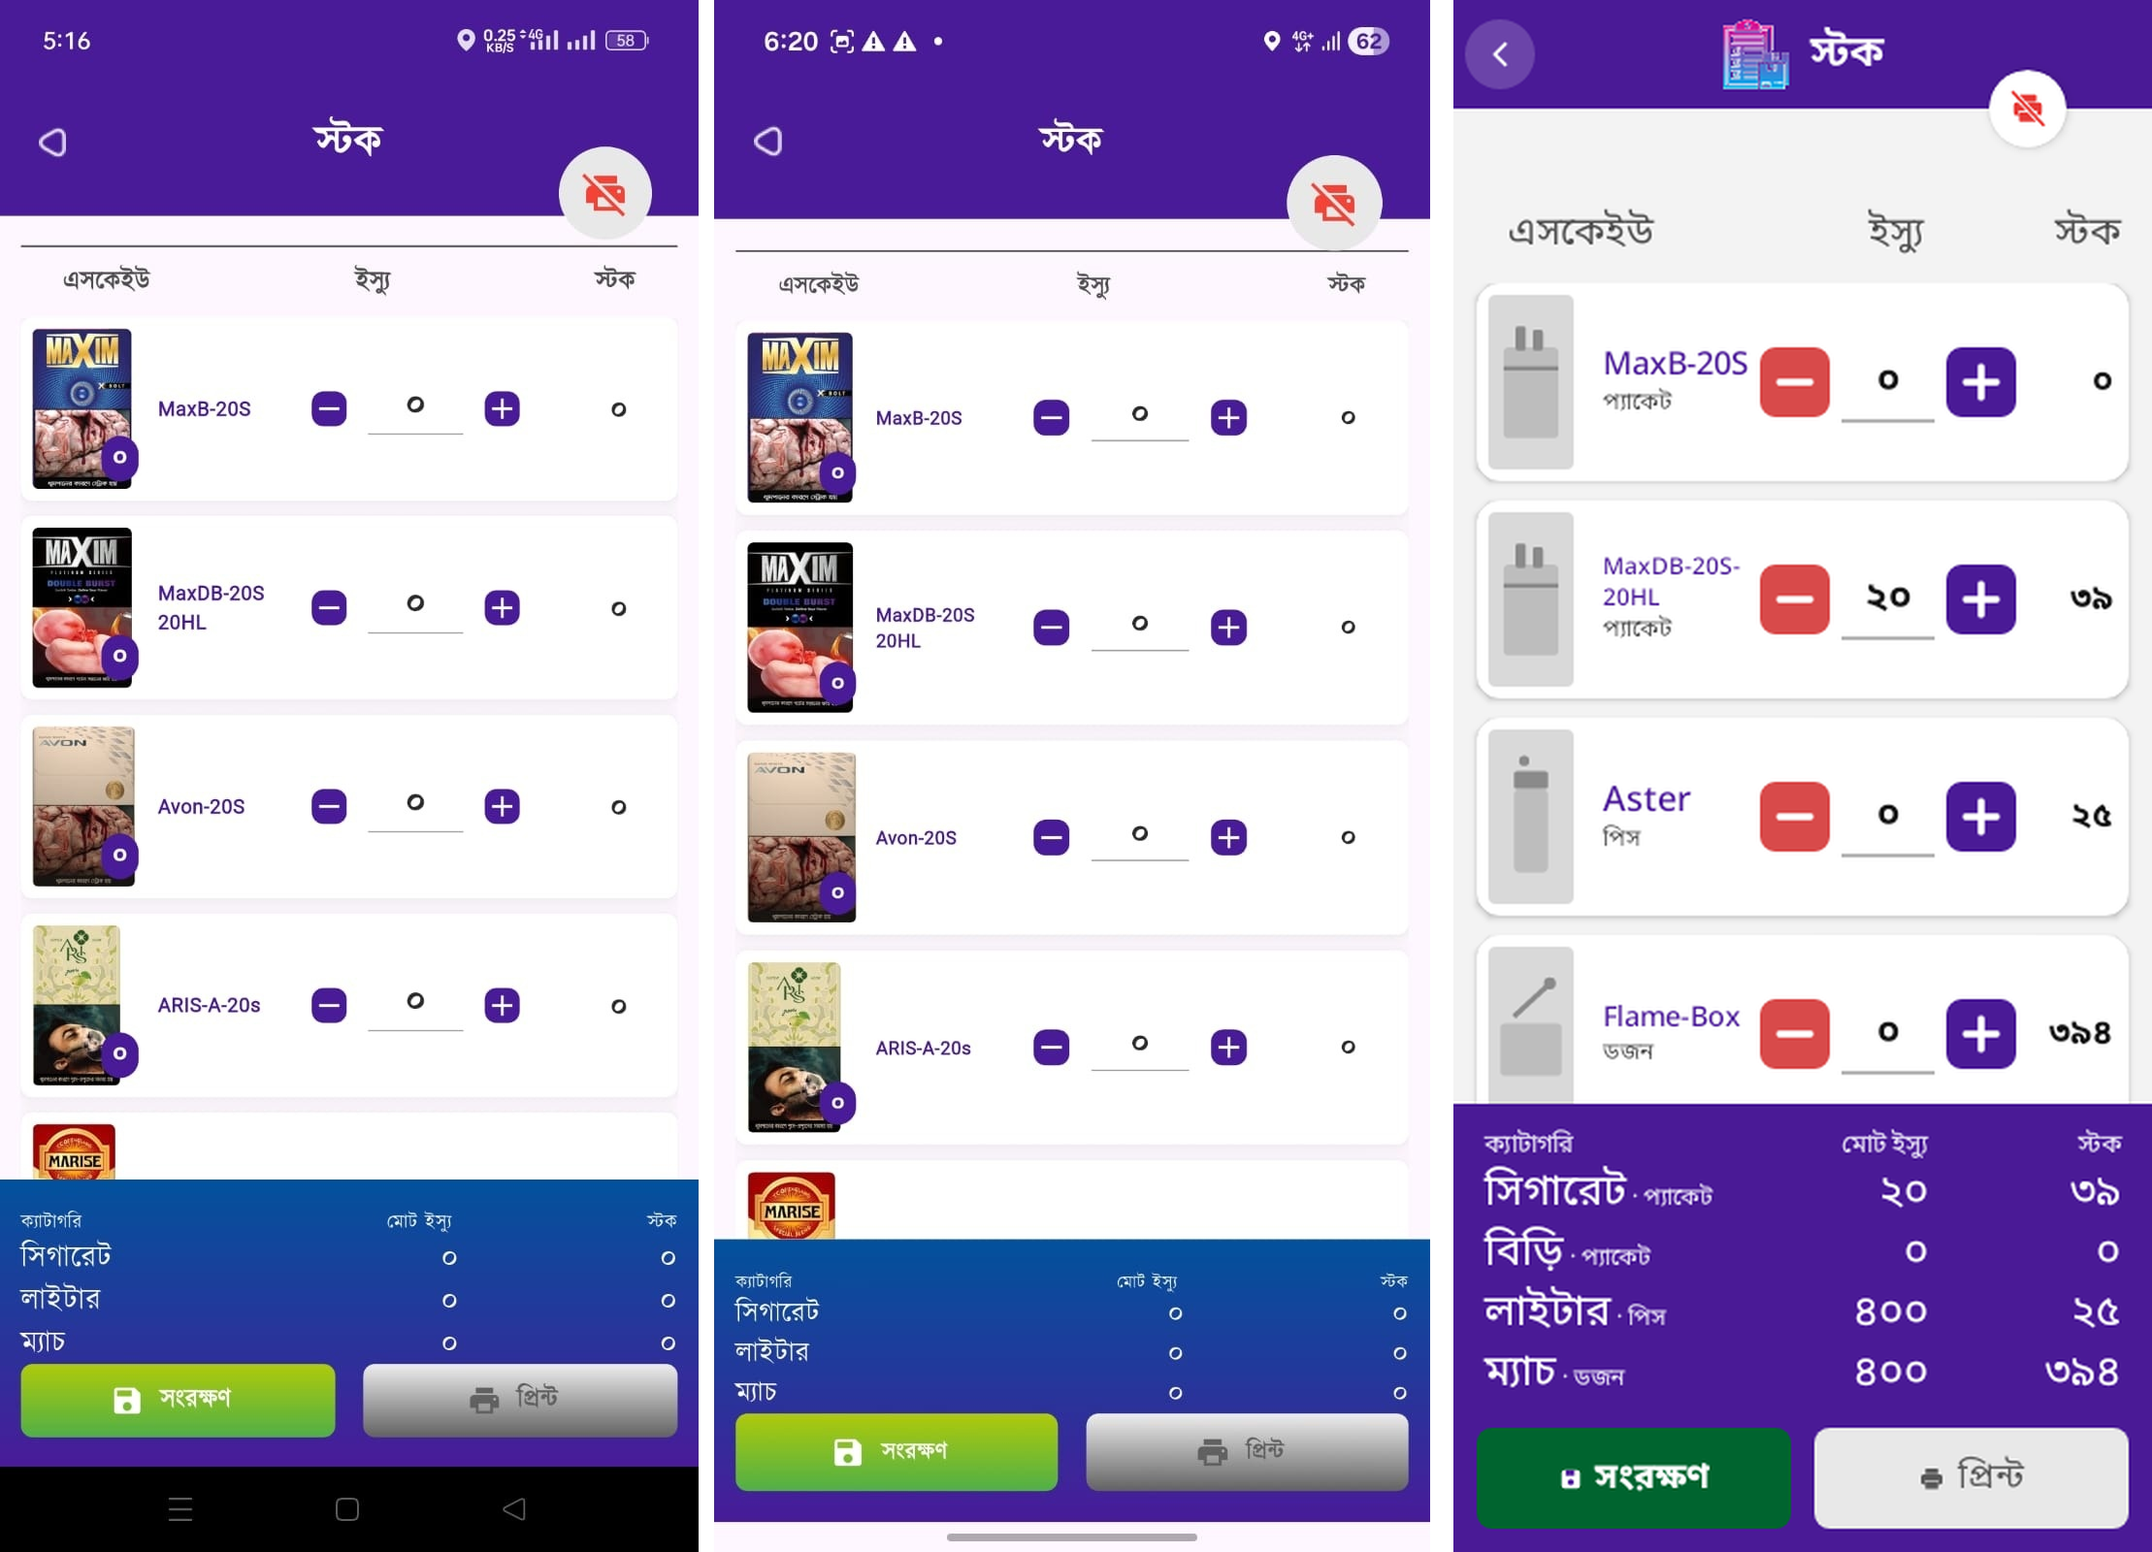
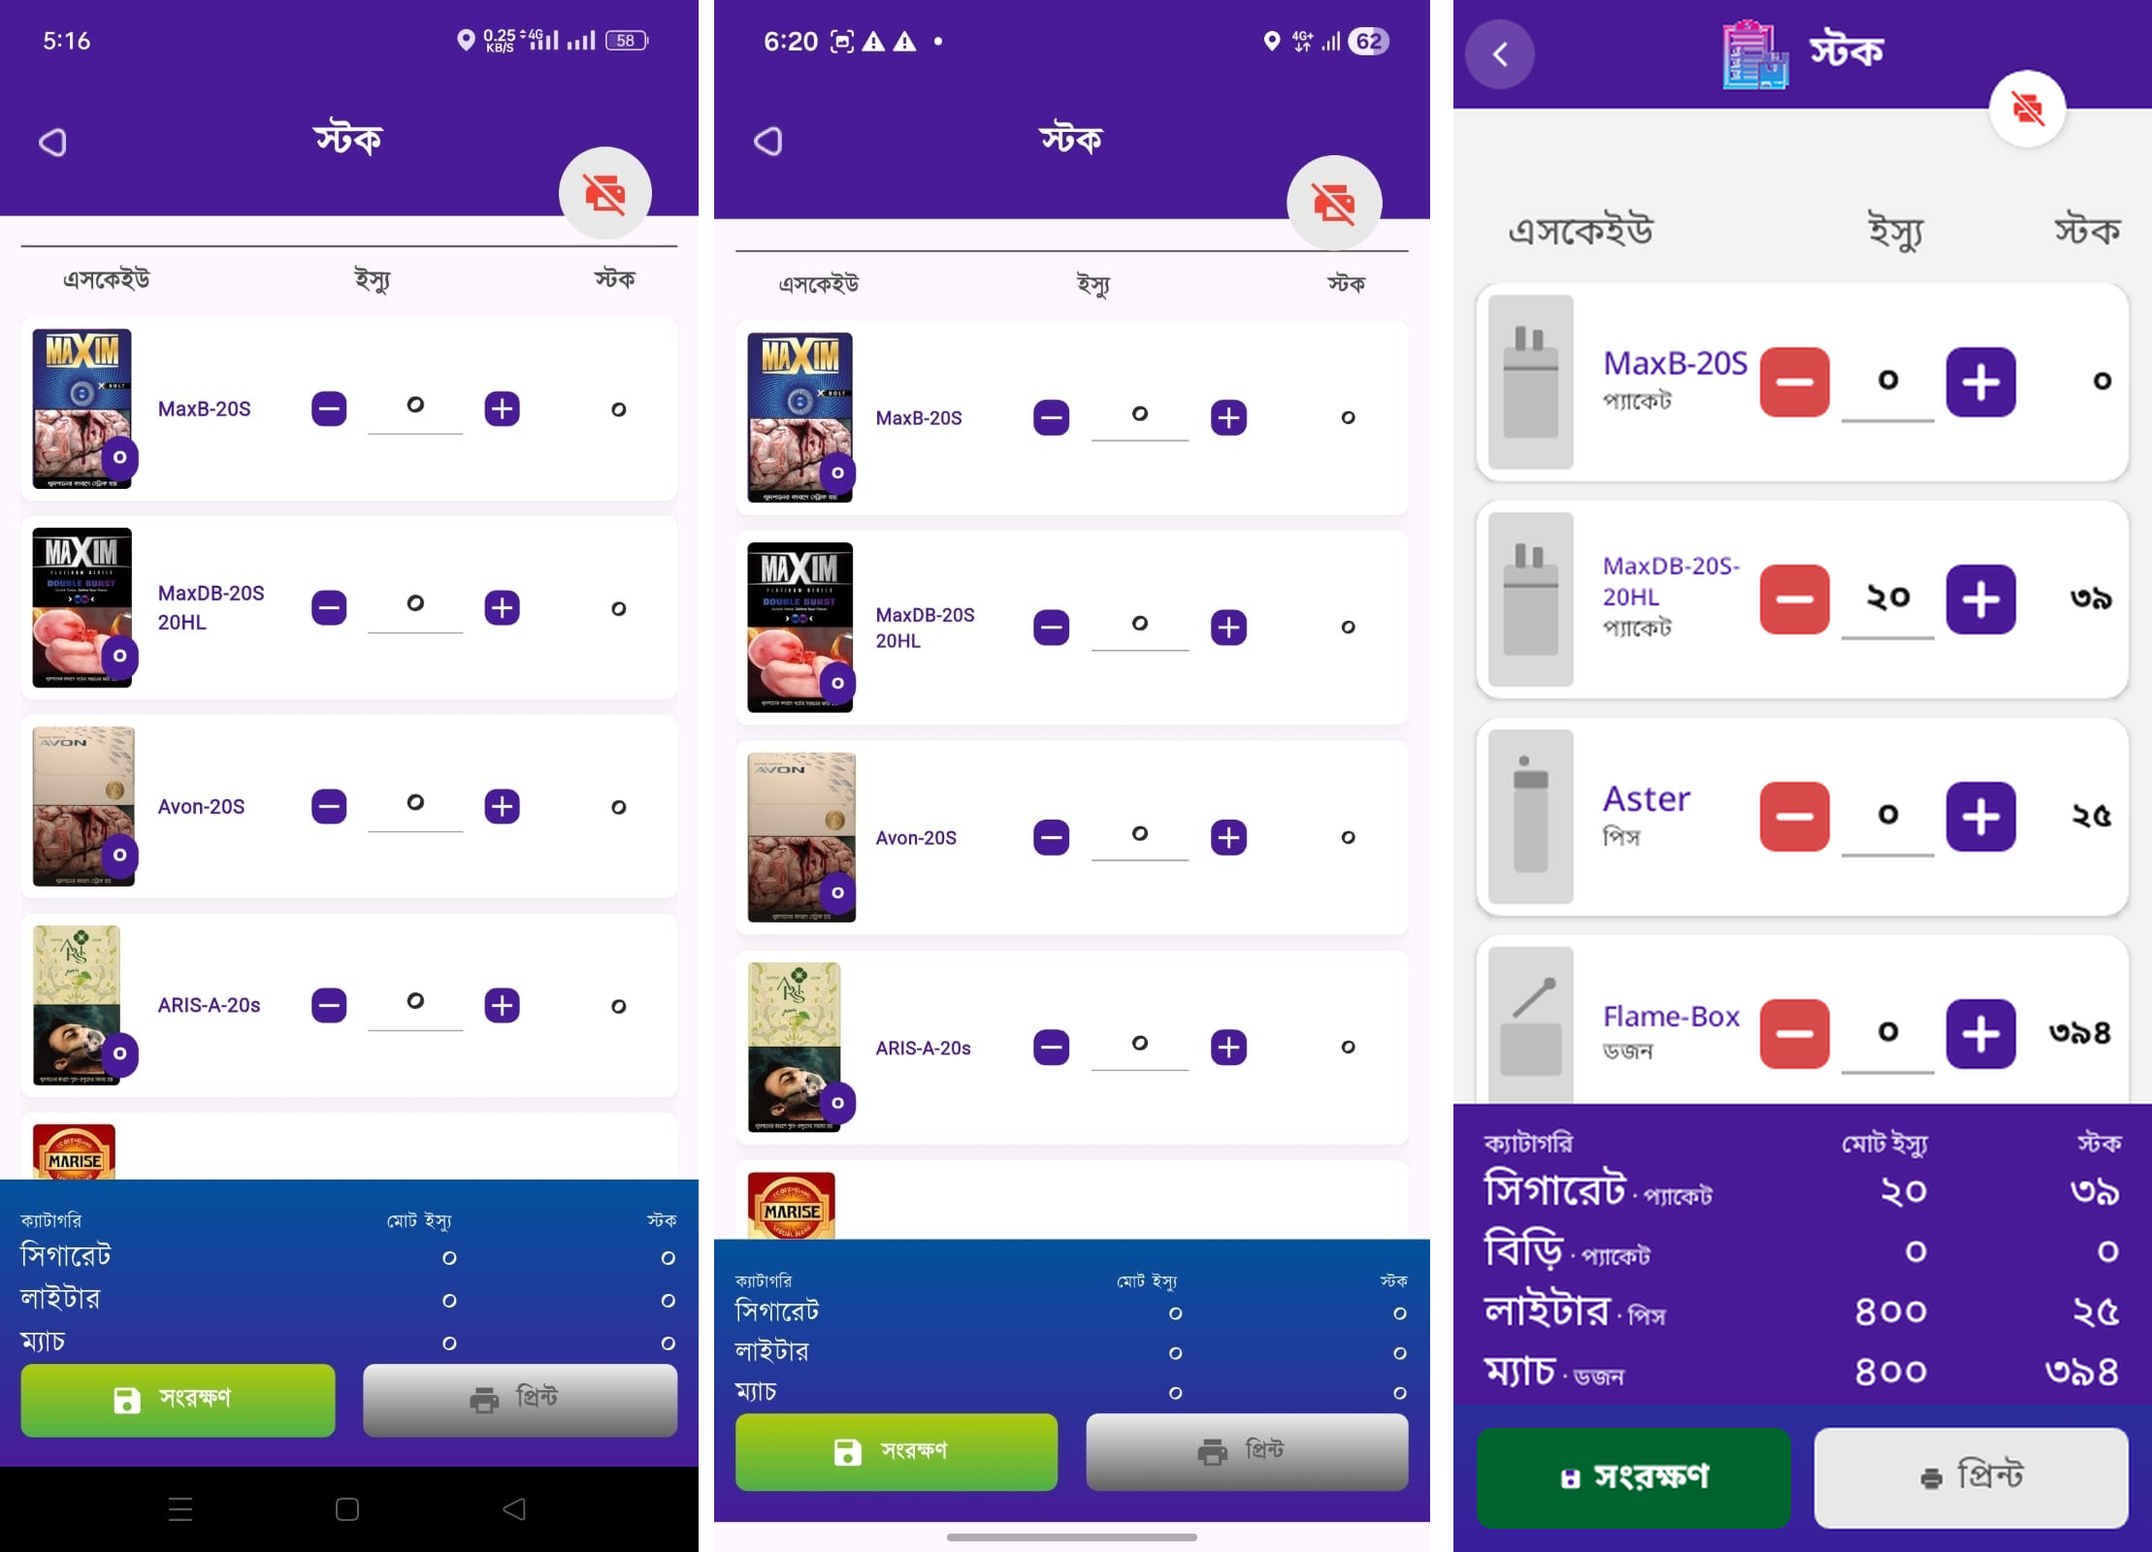
fix(amo-shell): checker items (label locale/range, Latin footer digits, dup key, goldens, nits) and the AMO Stock panel gradient
Claude-Session: https://claude.ai/code/session_014mnioNxtiaZHio9Fs8RoRn

Changed region(s): [[0.6533, 0.9062, 1.0, 0.9688]]

diff --git a/android/ui-screenshots/src/test/kotlin/com/aktcl/aron/uiscreenshots/AmoShellScreenshotTests.kt b/android/ui-screenshots/src/test/kotlin/com/aktcl/aron/uiscreenshots/AmoShellScreenshotTests.kt
@@ -111,10 +111,12 @@ class AmoShellScreenshotTests {
     @Test @Config(qualifiers = "bn-w360dp-h800dp") fun amo_attendance_waiting_bn() = shot("amo_attendance_waiting_bn", AppLanguage.BN) { Attendance(checkedIn) }
     @Test fun amo_attendance_waiting_en() = shot("amo_attendance_waiting_en", AppLanguage.EN) { Attendance(checkedIn) }
     @Test @Config(qualifiers = "bn-w360dp-h800dp") fun amo_attendance_waiting_bn_sunlight() = shot("amo_attendance_waiting_bn_sunlight", AppLanguage.BN, sunlight = true) { Attendance(checkedIn) }
+    @Test @Config(qualifiers = "bn-w360dp-h800dp") fun amo_attendance_waiting_bn_fs2() = shot("amo_attendance_waiting_bn_fs2", AppLanguage.BN, fontScale = 2f) { Attendance(checkedIn) }
     @Test @Config(qualifiers = "bn-w360dp-h800dp") fun amo_attendance_open_bn() = shot("amo_attendance_open_bn", AppLanguage.BN) { Attendance(open) }
     @Test @Config(qualifiers = "bn-w360dp-h800dp") fun amo_attendance_checkout_sheet_bn() = shot("amo_attendance_checkout_sheet_bn", AppLanguage.BN, after = tap("att_check_out")) { Attendance(open) }
     @Test @Config(qualifiers = "bn-w360dp-h800dp") fun amo_attendance_done_bn() = shot("amo_attendance_done_bn", AppLanguage.BN) { Attendance(done) }
     @Test fun amo_attendance_done_en() = shot("amo_attendance_done_en", AppLanguage.EN) { Attendance(done) }
+    @Test @Config(qualifiers = "bn-w360dp-h800dp") fun amo_attendance_done_bn_sunlight() = shot("amo_attendance_done_bn_sunlight", AppLanguage.BN, sunlight = true) { Attendance(done) }
     @Test @Config(qualifiers = "bn-w360dp-h800dp") fun amo_attendance_done_bn_fs2() = shot("amo_attendance_done_bn_fs2", AppLanguage.BN, fontScale = 2f) { Attendance(done) }
 
     private fun sku(id: Long, cat: String, name: String, unit: String, perPack: Int) =

diff --git a/android/core-ui/src/main/kotlin/com/aktcl/aron/core/ui/Tokens.kt b/android/core-ui/src/main/kotlin/com/aktcl/aron/core/ui/Tokens.kt
@@ -252,6 +252,8 @@ data class AronLookColors(
     val roundBack: Boolean = false,
     /** The AMO target cards (screenshot 9): sky blue, deepened until the white figure holds 7:1. */
     val targetCard: Color? = null,
+    /** The AMO bottom panel (screenshot 41): a vertical ramp from [panelTop] (royal blue) to [panelBottom] (indigo); null keeps the solid [panel] (Sunlight, SR, TSO). */
+    val panelTop: Color? = null, val panelBottom: Color? = null,
 )
 
 /**
@@ -448,7 +450,7 @@ object AronLook {
         purple = hex(0x4A1A96), panel = hex(0x4A1A96), page = hex(0xF3F3F3), pageHome = hex(0xF3F3F3), tileLabel = hex(0x222222), tileLabelOutlet = hex(0x222222),
         targetTop = hex(0x0B4EA2), targetBottom = hex(0x0B4EA2),
         primaryStart = hex(0x00642F), primaryEnd = hex(0x00642F), stopFill = hex(0xB0001C), choiceFill = hex(0x0B4EA2),
-        roundBack = true, targetCard = hex(0x0B5A8C),
+        roundBack = true, targetCard = hex(0x0B5A8C), panelTop = hex(0x0B4EA2), panelBottom = hex(0x3A1E99),
     )
 
     /** The AMO look in Sunlight: [Sunlight] (solid white bars, black ink) with the deep green, red and navy fills and the round back arrow. */

diff --git a/android/app-amo/src/main/kotlin/com/aktcl/aron/amo/MainActivity.kt b/android/app-amo/src/main/kotlin/com/aktcl/aron/amo/MainActivity.kt
@@ -129,7 +129,7 @@ class MainActivity : ComponentActivity() {
                             // The bind step (OTP from /device-otp) follows the first login of an enrolled phone.
                             val vm = viewModel { LoginViewModel(components.session::login).also { it.bind = components.session::bindDevice } }
                             // R1: the footer reads "ARON AMO v<version>", never the vendor credit
-                            LoginScreen(vm, stringResource(R.string.app_name), versionName, onLanguageSelect, onEnrol, footerText = stringResource(R.string.app_name) + " v" + BuildConfig.VERSION_NAME)
+                            LoginScreen(vm, stringResource(R.string.app_name), versionName, onLanguageSelect, onEnrol, footerText = stringResource(com.aktcl.aron.feature.amo.R.string.amo_shell_login_footer, stringResource(R.string.app_name), BuildConfig.VERSION_NAME))
                         }
                         is SessionState.Active -> AronTheme(language, sunlight = sunlight, amo = true) { // D-AMO-MAN-03: the AMO look on every signed-in screen
                             // F-SYS-022: AMO keeps its data; it keeps uploading.

diff --git a/android/core-system/src/main/kotlin/com/aktcl/aron/core/system/update/UpdateUi.kt b/android/core-system/src/main/kotlin/com/aktcl/aron/core/system/update/UpdateUi.kt
@@ -131,11 +131,11 @@ fun UpdateContent(
 @Composable
 private fun AmoUpdateRibbon(text: String) {
     androidx.compose.foundation.layout.Box(
-        Modifier.padding(vertical = AronTokens.Space.L).background(androidx.compose.ui.graphics.Color(0xFFB85C00), androidx.compose.foundation.shape.RoundedCornerShape(4.dp)).padding(horizontal = 6.dp, vertical = 4.dp),
+        Modifier.padding(vertical = AronTokens.Space.L).background(com.aktcl.aron.core.ui.LocalAronColors.current.warning, androidx.compose.foundation.shape.RoundedCornerShape(4.dp)).padding(horizontal = 6.dp, vertical = 4.dp),
     ) {
         Text(
             text, color = androidx.compose.ui.graphics.Color.White, style = MaterialTheme.typography.titleLarge,
-            modifier = Modifier.background(androidx.compose.ui.graphics.Color(0xFF8A4300), androidx.compose.foundation.shape.RoundedCornerShape(2.dp)).padding(horizontal = 24.dp, vertical = 8.dp),
+            modifier = Modifier.background(androidx.compose.ui.graphics.Color.Black.copy(alpha = 0.22f), androidx.compose.foundation.shape.RoundedCornerShape(2.dp)).padding(horizontal = 24.dp, vertical = 8.dp),
         )
     }
 }

diff --git a/android/core-ui/src/main/kotlin/com/aktcl/aron/core/ui/aron/Chrome.kt b/android/core-ui/src/main/kotlin/com/aktcl/aron/core/ui/aron/Chrome.kt
@@ -189,6 +189,10 @@ fun AronPrinterBadge(connected: Boolean, label: String, onClick: () -> Unit, mod
     }
 }
 
+/** The bottom panel's fill: the vertical ramp of the AMO look (screenshot 41) when it has one, else the solid purple. */
+fun Modifier.panelBackground(look: AronLookColors): Modifier =
+    if (look.panelTop != null) background(Brush.verticalGradient(listOf(look.panelTop, look.panelBottom ?: look.panelTop))) else background(look.panel)
+
 /** True for the buttons of [AronScaffold] that sit on the purple panel: [AronPrimaryButton] then ends its ramp at `panelButtonEnd`. */
 private val LocalOnPanel = staticCompositionLocalOf { false }
 
@@ -217,7 +221,7 @@ fun AronScaffold(
             Column(
                 Modifier
                     .fillMaxWidth()
-                    .background(if (bottomPanel != null) look.panel else look.page)
+                    .then(if (bottomPanel == null) Modifier.background(look.page) else Modifier.panelBackground(look))
                     .windowInsetsPadding(WindowInsets.navigationBars),
             ) {
                 bottomPanel?.invoke(this)

diff --git a/android/feature-auth/src/main/kotlin/com/aktcl/aron/feature/auth/LoginScreen.kt b/android/feature-auth/src/main/kotlin/com/aktcl/aron/feature/auth/LoginScreen.kt
@@ -59,7 +59,7 @@ fun LoginScreen(
     onSunlight: ((Boolean) -> Unit)? = null,
     /** [LoginVariant.Tso] draws the TSO screen of screenshot 5 (D-TSO-MAN-15); the TSO app never reaches the OTP step (D-AUTH-TSO-NOBIND). */
     variant: LoginVariant = LoginVariant.Standard,
-    /** The footer line when the app wants its own ("ARON AMO v1.0.25", D-AMO-MAN R1); null keeps "Version <versionName>". */
+    /** The footer line when the app wants its own ("ARON AMO v1.0.25", D-AMO-MAN R1), shown verbatim (its version digits stay Latin); null keeps "Version <versionName>". */
     footerText: String? = null,
 ) {
     val state by viewModel.state.collectAsStateWithLifecycle()
@@ -156,7 +156,7 @@ fun LoginContent(
                     }
                 }
             }
-            AuthFooter(localizedDigits(footerText ?: stringResource(R.string.auth_version, versionName)), Modifier.testTag(LoginTags.VERSION))
+            AuthFooter(footerText ?: localizedDigits(stringResource(R.string.auth_version, versionName)), Modifier.testTag(LoginTags.VERSION))
         }
     }
 }

diff --git a/android/feature-stock/src/main/kotlin/com/aktcl/aron/feature/stock/StockScreen.kt b/android/feature-stock/src/main/kotlin/com/aktcl/aron/feature/stock/StockScreen.kt
@@ -1,5 +1,6 @@
 package com.aktcl.aron.feature.stock
 
+import com.aktcl.aron.core.ui.aron.panelBackground
 import androidx.compose.foundation.background
 import androidx.compose.foundation.layout.Arrangement
 import androidx.compose.foundation.layout.Column
@@ -151,7 +152,7 @@ fun StockContent(
                 else -> null
             },
         ).takeIf { it.isNotEmpty() }?.joinToString(stringResource(R.string.stk_reason_join))
-        Column(Modifier.fillMaxWidth().background(look.panel).windowInsetsPadding(WindowInsets.navigationBars)) {
+        Column(Modifier.fillMaxWidth().panelBackground(look).windowInsetsPadding(WindowInsets.navigationBars)) {
             StockTotals(rows, totals, hasStock)
             if (reason != null) Text(reason, color = look.onPanelMuted, fontSize = 12.sp, modifier = Modifier.padding(start = 16.dp, end = 16.dp, top = 4.dp))
             Row(Modifier.fillMaxWidth().padding(12.dp), horizontalArrangement = Arrangement.spacedBy(12.dp), verticalAlignment = Alignment.CenterVertically) {

diff --git a/android/core-ui/src/test/kotlin/com/aktcl/aron/core/ui/TokenContrastTest.kt b/android/core-ui/src/test/kotlin/com/aktcl/aron/core/ui/TokenContrastTest.kt
@@ -334,6 +334,16 @@ class TokenContrastTest {
         amo(n, "white figure on a target card", Color.White, l.targetCard!!, 7.0)
     }
 
+    @Test fun amoStockPanelRampHoldsSevenToOneForFigures() {
+        val l = AronLook.AmoPurple
+        listOf(l.panelTop!!, l.panelBottom!!).forEach {
+            amo("AmoPurple", "white figure on the panel ramp", l.onPanel, it, 7.0)
+            amo("AmoPurple", "muted ink on the panel ramp", l.onPanelMuted, it, 4.5)
+        }
+        // Sunlight and the other looks stay solid
+        listOf(AronLook.Default, AronLook.Sunlight, AronLook.TsoNight, AronLook.TsoSunlight, AronLook.AmoSunlight).forEach { assertTrue(it.panelTop == null) }
+    }
+
     @Test fun amoLooksAreScopedAndSunlightIsSolid() {
         // the SR and TSO looks carry none of the AMO roles, so their goldens cannot move
         listOf(AronLook.Default, AronLook.Sunlight, AronLook.TsoNight, AronLook.TsoSunlight).forEach {

diff --git a/android/app-amo/src/main/kotlin/com/aktcl/aron/amo/SystemScreens.kt b/android/app-amo/src/main/kotlin/com/aktcl/aron/amo/SystemScreens.kt
@@ -22,7 +22,7 @@ fun SupportHost(shell: SystemShell, userId: Long, versionName: String) {
         val s = shell.support(userId, versionName)
         support = s; status = s.status(); lastSync = s.lastSyncText()
     }
-    // screenshot 76: after the file is sent the vendor shows "সফল / সিঙ্ক ফাইল পাঠানো হয়ে গেছে" with ওকে; Settings stays behind it
+    // screenshot 76: after the file is sent the vendor shows "সফল / সিঙ্ক ফাইল পাঠানো হয়ে গেছে" with ওকে; the Support screen stays behind it
     var sentDialog by remember { mutableStateOf(false) }
     if (sentDialog) com.aktcl.aron.core.ui.AronInfoDialog(
         androidx.compose.ui.res.stringResource(com.aktcl.aron.feature.amo.R.string.amo_shell_support_title), androidx.compose.ui.res.stringResource(com.aktcl.aron.feature.amo.R.string.amo_shell_support_sent),

diff --git a/android/feature-attendance/src/main/kotlin/com/aktcl/aron/feature/attendance/AttendanceScreen.kt b/android/feature-attendance/src/main/kotlin/com/aktcl/aron/feature/attendance/AttendanceScreen.kt
@@ -541,9 +541,10 @@ private fun HoldSheet(visible: Boolean, title: String, icon: ImageVector, timeTe
 
 /** "5" / "5:30" in Bangla (the string adds "টার"), "5 PM" / "5:30 PM" in English: the hour of the configured check-out time on the 12-hour clock. */
 internal fun checkoutAfterLabel(hhmm: String, bangla: Boolean): String = runCatching {
-    val (h, m) = hhmm.split(":").map { it.toInt() }
+    val (h, m) = hhmm.split(":").map { it.trim().toInt() }
+    require(h in 0..23 && m in 0..59)
     val h12 = if (h % 12 == 0) 12 else h % 12
-    val body = if (m == 0) "$h12" else "$h12:%02d".format(m)
+    val body = if (m == 0) "$h12" else "$h12:" + "%02d".format(java.util.Locale.ROOT, m)
     if (bangla) body else body + if (h < 12) " AM" else " PM"
 }.getOrDefault(hhmm)
 

diff --git a/android/core-ui/src/main/kotlin/com/aktcl/aron/core/ui/aron/DomeHold.kt b/android/core-ui/src/main/kotlin/com/aktcl/aron/core/ui/aron/DomeHold.kt
@@ -44,7 +44,7 @@ import kotlinx.coroutines.launch
 /**
  * The half-dome press-and-hold button of the AMO check-in / check-out sheet (notes 15, 16): the upper half of a circle, a gradient from
  * [from] (lower left) to [to] (upper right), the white [icon] over the white [label]. [onConfirmed] fires only after the finger has stayed
- * down for [holdMillis]; lifting early cancels (same rule as AronPressAndHoldButton). A white arc along the rim shows the progress; TalkBack
+ * down for [holdMillis]; lifting early cancels (same rule as AronPressAndHoldButton). A white bar along the bottom edge shows the progress; TalkBack
  * users get a long-click action instead of a hold. Sunlight passes one solid deep colour in both stops.
  */
 @Composable

diff --git a/android/feature-attendance/src/test/kotlin/com/aktcl/aron/feature/attendance/CheckoutAfterLabelTest.kt b/android/feature-attendance/src/test/kotlin/com/aktcl/aron/feature/attendance/CheckoutAfterLabelTest.kt
@@ -21,5 +21,8 @@ class CheckoutAfterLabelTest {
 
     @Test fun badInputComesBackUnchanged() {
         assertEquals("soon", checkoutAfterLabel("soon", bangla = true))
+        // out of range is bad input too, not "1 PM" for 25:00
+        assertEquals("25:00", checkoutAfterLabel("25:00", bangla = false))
+        assertEquals("17:75", checkoutAfterLabel("17:75", bangla = true))
     }
 }
